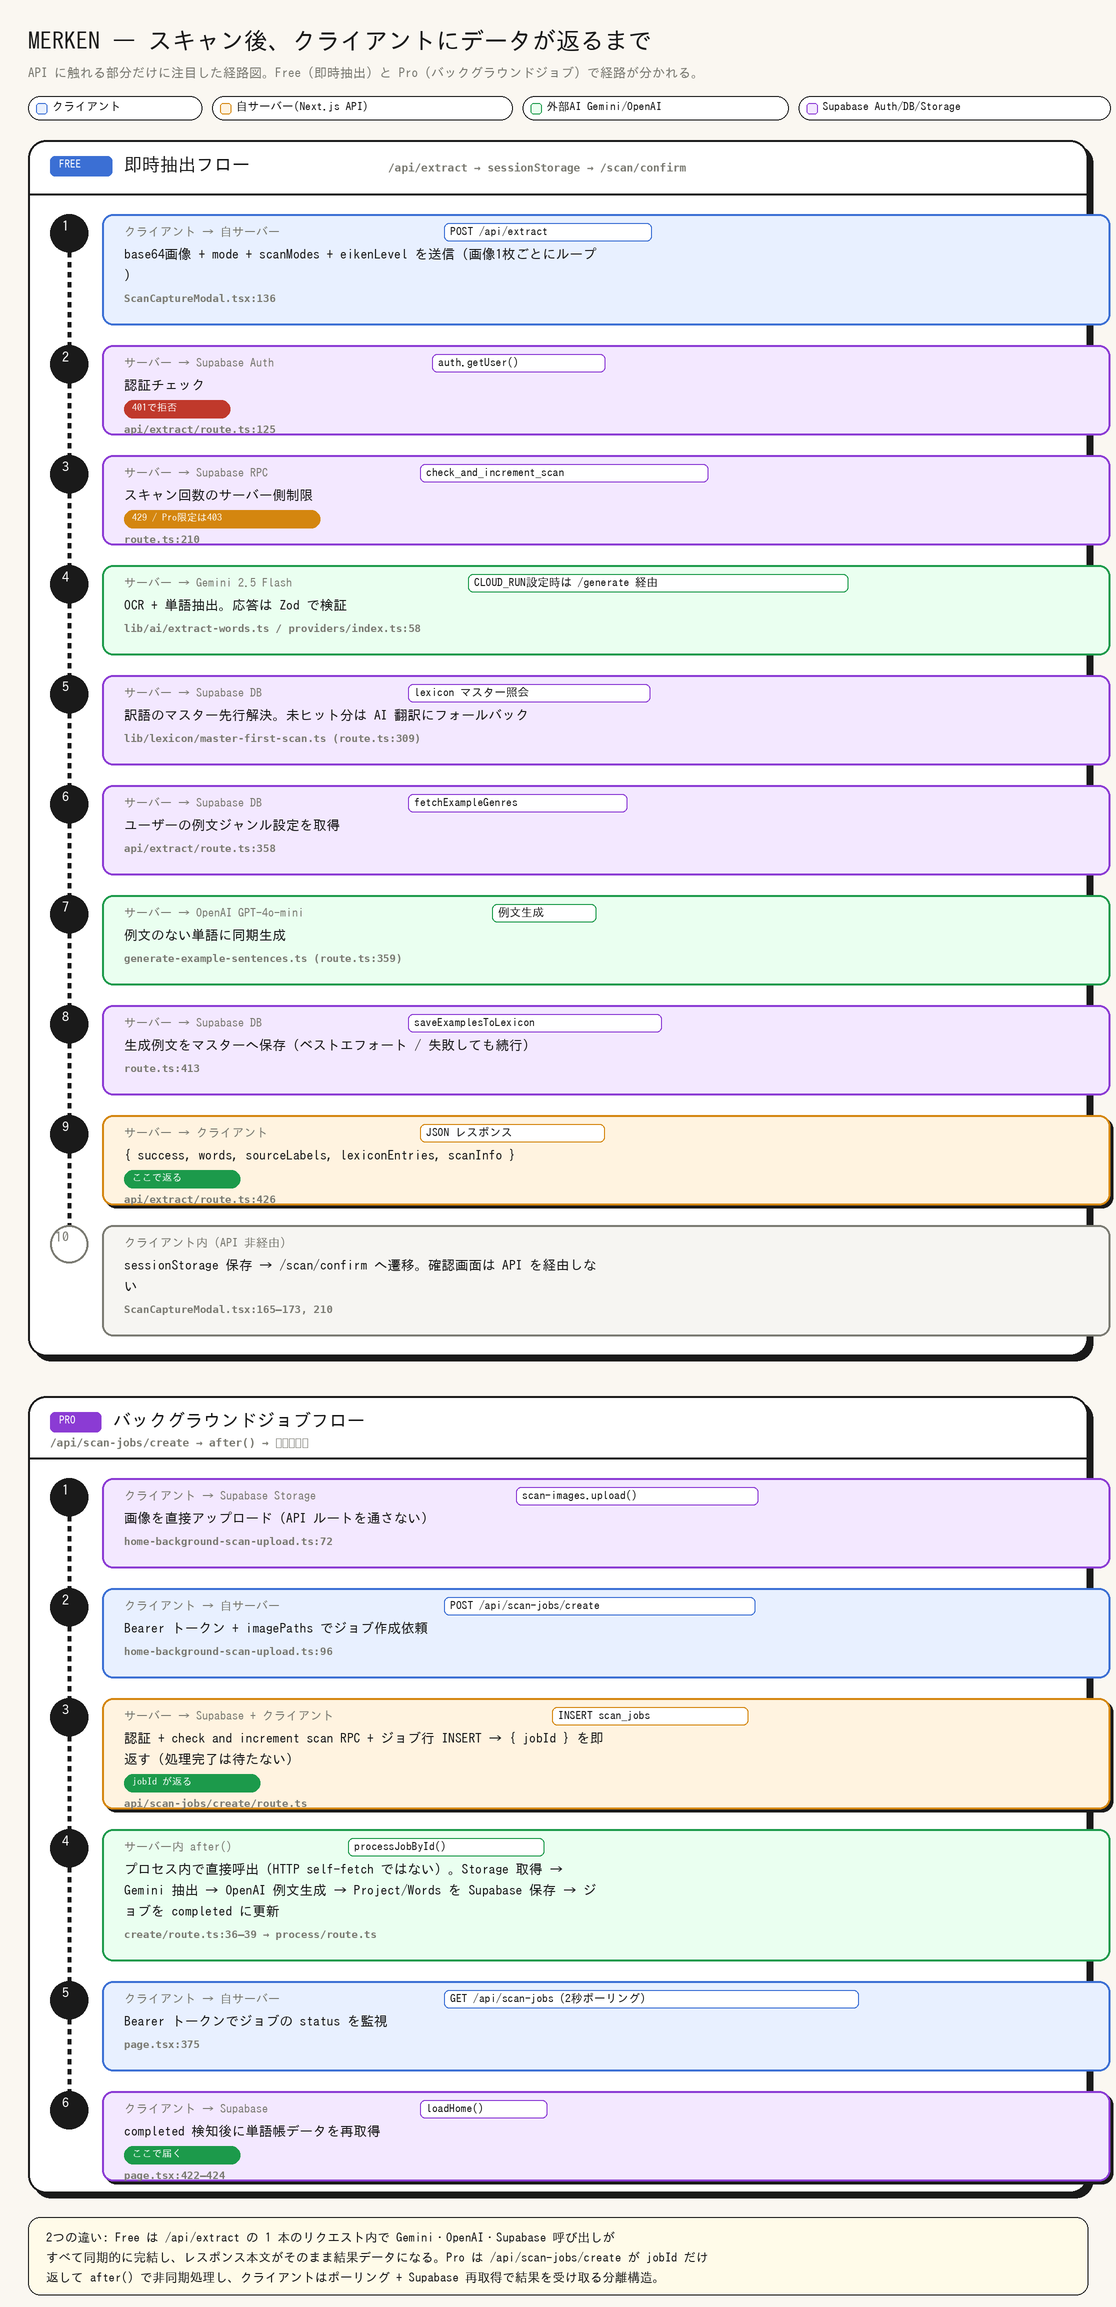
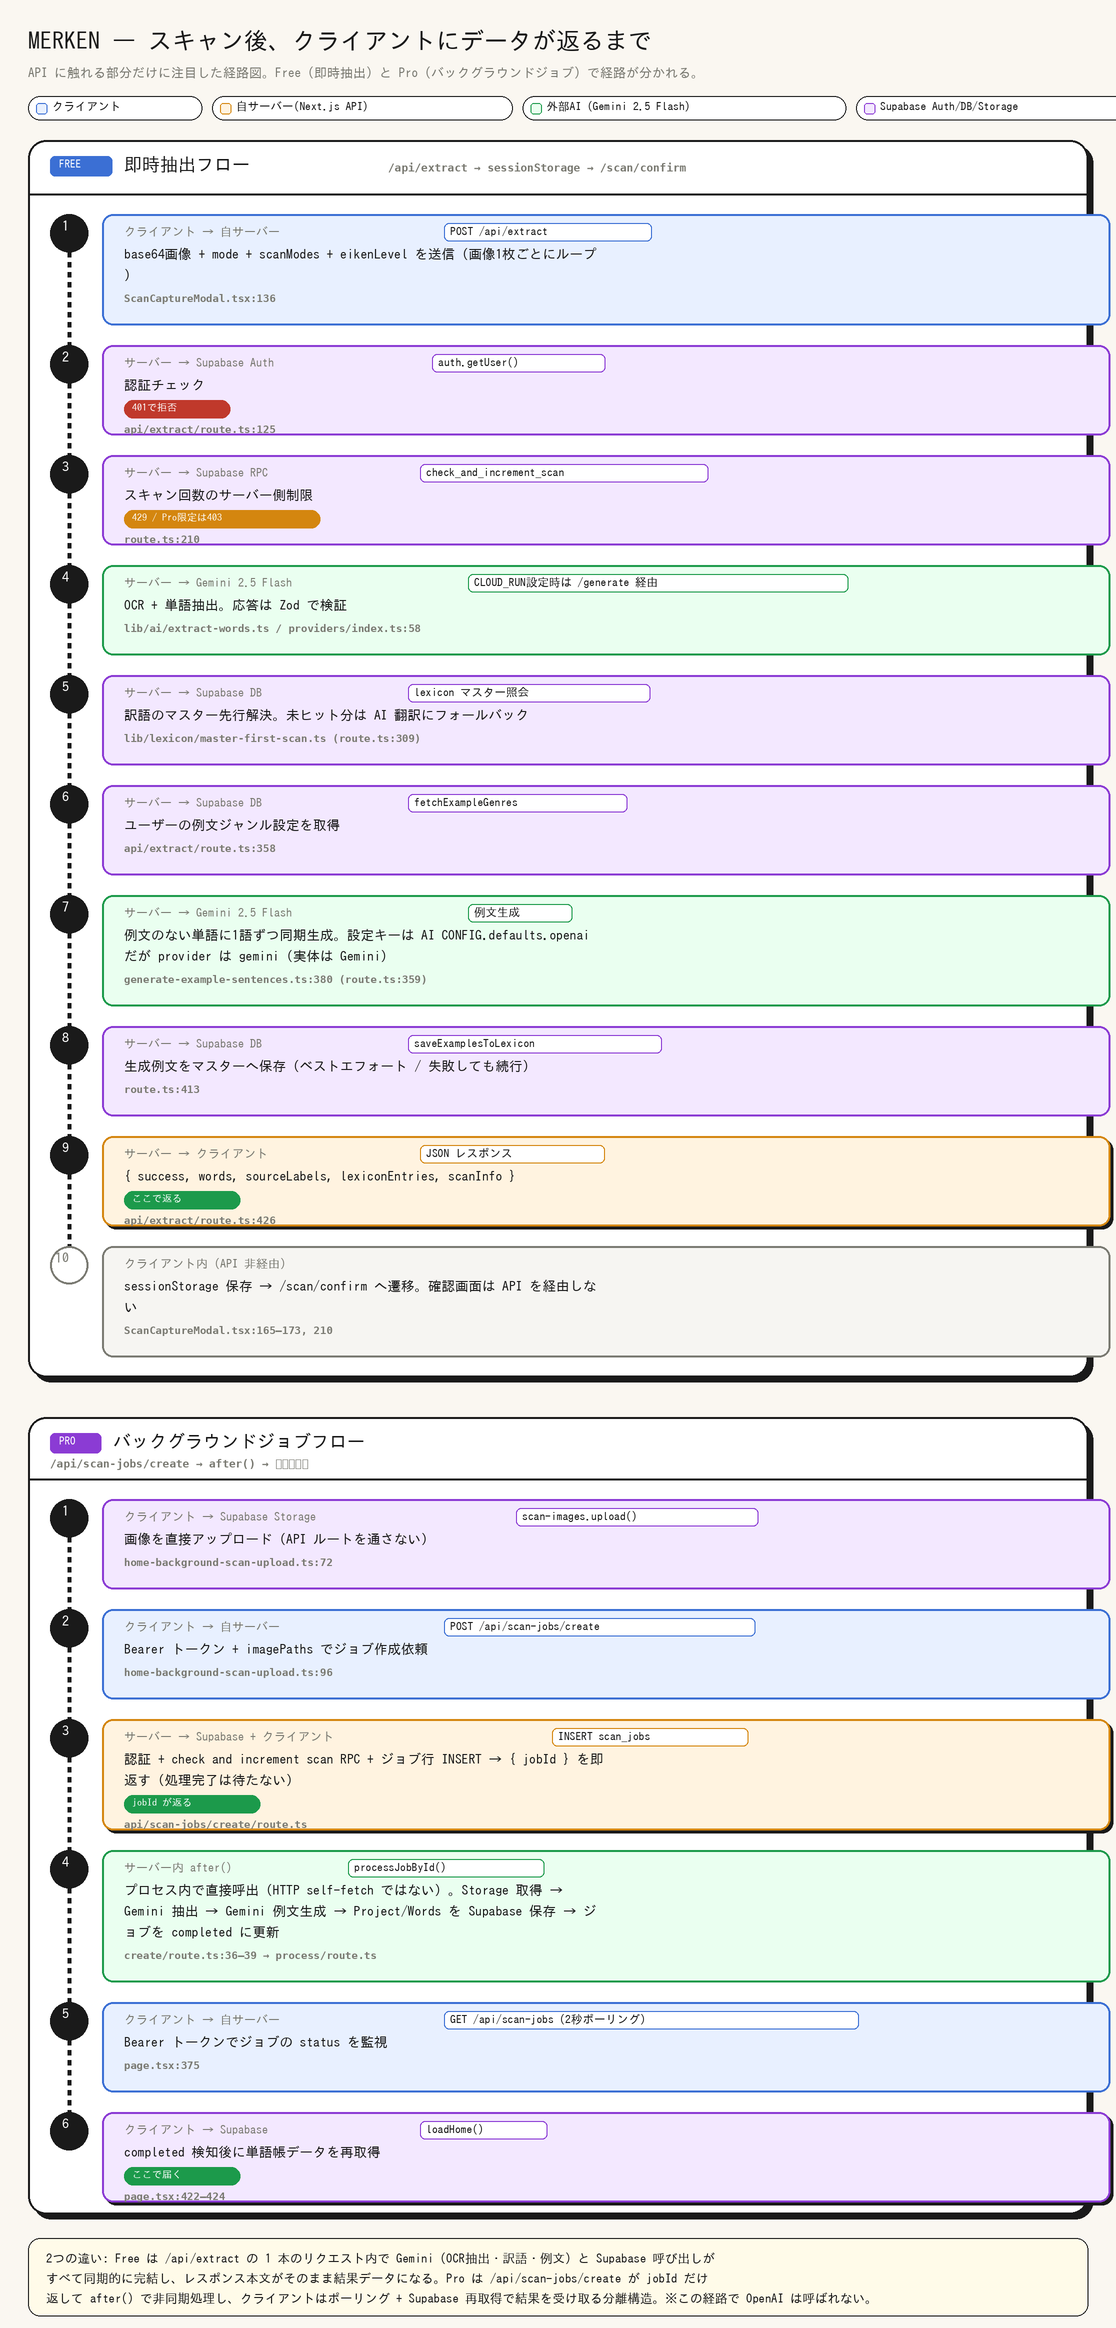
docs: fix scan flow diagram - example sentences use Gemini not OpenAI
AI_CONFIG.defaults.openai resolves to provider:'gemini' (gemini-2.5-flash),
so example sentence generation in the scan path runs on Gemini, not OpenAI.

https://claude.ai/code/session_015XyDZ3269yUr6yUFCNmCQy

Changed region(s): [[0.0305, 0.0, 1.0, 0.9987]]

diff --git a/docs/scan-data-flow.html b/docs/scan-data-flow.html
@@ -154,7 +154,7 @@
   <div class="legend">
     <span class="chip"><span class="dot client"></span>クライアント</span>
     <span class="chip"><span class="dot server"></span>自サーバー（Next.js API）</span>
-    <span class="chip"><span class="dot ext"></span>外部AI（Gemini / OpenAI）</span>
+    <span class="chip"><span class="dot ext"></span>外部AI（Gemini 2.5 Flash）</span>
     <span class="chip"><span class="dot supa"></span>Supabase（Auth / DB / Storage）</span>
     <span class="chip"><span class="dot" style="background:#fff;border-style:dashed;"></span>API非経由</span>
   </div>
@@ -225,9 +225,9 @@
       <div class="step api">
         <div class="num">7</div>
         <div class="card ext">
-          <div class="arrow">サーバー <span>→</span> OpenAI GPT-4o-mini <span class="ep">例文生成</span></div>
-          <p class="desc">例文のない単語に同期生成</p>
-          <p class="loc">src/lib/ai/generate-example-sentences.ts（route.ts:359）</p>
+          <div class="arrow">サーバー <span>→</span> Gemini 2.5 Flash <span class="ep">例文生成</span></div>
+          <p class="desc">例文のない単語に1語ずつ同期生成。設定キーは <code>AI_CONFIG.defaults.openai</code> だが <code>provider:'gemini'</code> なので実体は Gemini</p>
+          <p class="loc">src/lib/ai/generate-example-sentences.ts:380（route.ts:359）</p>
         </div>
       </div>
 
@@ -301,7 +301,7 @@
         <div class="num">4</div>
         <div class="card ext">
           <div class="arrow">サーバー内 <span>after()</span> <span class="ep">processJobById()</span></div>
-          <p class="desc">プロセス内で直接呼出（HTTP self-fetch ではない）。Storage取得 → Gemini抽出 → OpenAI例文生成 → Project/Words を Supabase 保存 → ジョブを completed に更新</p>
+          <p class="desc">プロセス内で直接呼出（HTTP self-fetch ではない）。Storage取得 → Gemini抽出 → Gemini例文生成 → Project/Words を Supabase 保存 → ジョブを completed に更新</p>
           <p class="loc">create/route.ts:36–39 → scan-jobs/process/route.ts</p>
         </div>
       </div>
@@ -328,8 +328,9 @@
   </div>
 
   <div class="note">
-    <b>2つの違い：</b> Free は <b>/api/extract の1本のリクエスト内で</b> Gemini・OpenAI・Supabase 呼び出しがすべて同期的に完結し、レスポンス本文がそのまま結果データになります。
+    <b>2つの違い：</b> Free は <b>/api/extract の1本のリクエスト内で</b> Gemini（OCR抽出・訳語・例文）と Supabase 呼び出しがすべて同期的に完結し、レスポンス本文がそのまま結果データになります。
     Pro は <b>/api/scan-jobs/create が jobId だけ返して after() で非同期処理</b>し、クライアントはポーリング + Supabase 再取得で結果を受け取る分離構造です。
+    <b>※ このスキャン経路で OpenAI は呼ばれません</b>（例文生成も含め全て Gemini。設定キー名 <code>openai</code> は実体 gemini）。
   </div>
 
 </div>

diff --git a/scripts/render_scan_flow.py b/scripts/render_scan_flow.py
@@ -82,8 +82,8 @@ FREE = [
          "訳語のマスター先行解決。未ヒット分は AI 翻訳にフォールバック","lib/lexicon/master-first-scan.ts (route.ts:309)"),
     Step("6","api","supa","サーバー → Supabase DB","fetchExampleGenres",
          "ユーザーの例文ジャンル設定を取得","api/extract/route.ts:358"),
-    Step("7","api","ext","サーバー → OpenAI GPT-4o-mini","例文生成",
-         "例文のない単語に同期生成","generate-example-sentences.ts (route.ts:359)"),
+    Step("7","api","ext","サーバー → Gemini 2.5 Flash","例文生成",
+         "例文のない単語に1語ずつ同期生成。設定キーは AI_CONFIG.defaults.openai だが provider は gemini（実体は Gemini）","generate-example-sentences.ts:380 (route.ts:359)"),
     Step("8","api","supa","サーバー → Supabase DB","saveExamplesToLexicon",
          "生成例文をマスターへ保存（ベストエフォート / 失敗しても続行）","route.ts:413"),
     Step("9","return","server","サーバー → クライアント","JSON レスポンス",
@@ -100,7 +100,7 @@ PRO = [
          "認証 + check_and_increment_scan RPC + ジョブ行 INSERT → { jobId } を即返す（処理完了は待たない）",
          "api/scan-jobs/create/route.ts",("jobId が返る","ret")),
     Step("4","api","ext","サーバー内 after()","processJobById()",
-         "プロセス内で直接呼出（HTTP self-fetch ではない）。Storage 取得 → Gemini 抽出 → OpenAI 例文生成 → Project/Words を Supabase 保存 → ジョブを completed に更新",
+         "プロセス内で直接呼出（HTTP self-fetch ではない）。Storage 取得 → Gemini 抽出 → Gemini 例文生成 → Project/Words を Supabase 保存 → ジョブを completed に更新",
          "create/route.ts:36–39 → process/route.ts"),
     Step("5","api","client","クライアント → 自サーバー","GET /api/scan-jobs（2秒ポーリング）",
          "Bearer トークンでジョブの status を監視","page.tsx:375"),
@@ -306,7 +306,7 @@ y += 30
 # legend
 lx = MARGIN
 leg = [("クライアント","client"),("自サーバー(Next.js API)","server"),
-       ("外部AI Gemini/OpenAI","ext"),("Supabase Auth/DB/Storage","supa")]
+       ("外部AI (Gemini 2.5 Flash)","ext"),("Supabase Auth/DB/Storage","supa")]
 f_leg = jp(11.5)
 for label, key in leg:
     bg, bd = COL[key]
@@ -328,9 +328,9 @@ y += flow_height(PRO) + 24
 # note
 nb = [MARGIN, y, MARGIN+CONTENT_W, y+78]
 sd.rounded_rectangle(nb, radius=12, fill=(255,251,233), outline=INK, width=1.4)
-note1 = "2つの違い: Free は /api/extract の 1 本のリクエスト内で Gemini・OpenAI・Supabase 呼び出しが"
+note1 = "2つの違い: Free は /api/extract の 1 本のリクエスト内で Gemini（OCR抽出・訳語・例文）と Supabase 呼び出しが"
 note2 = "すべて同期的に完結し、レスポンス本文がそのまま結果データになる。Pro は /api/scan-jobs/create が jobId だけ"
-note3 = "返して after() で非同期処理し、クライアントはポーリング + Supabase 再取得で結果を受け取る分離構造。"
+note3 = "返して after() で非同期処理し、クライアントはポーリング + Supabase 再取得で結果を受け取る分離構造。※この経路で OpenAI は呼ばれない。"
 fn = jp(12.5)
 sd.text((MARGIN+18, y+14), note1, font=fn, fill=INK)
 sd.text((MARGIN+18, y+34), note2, font=fn, fill=INK)